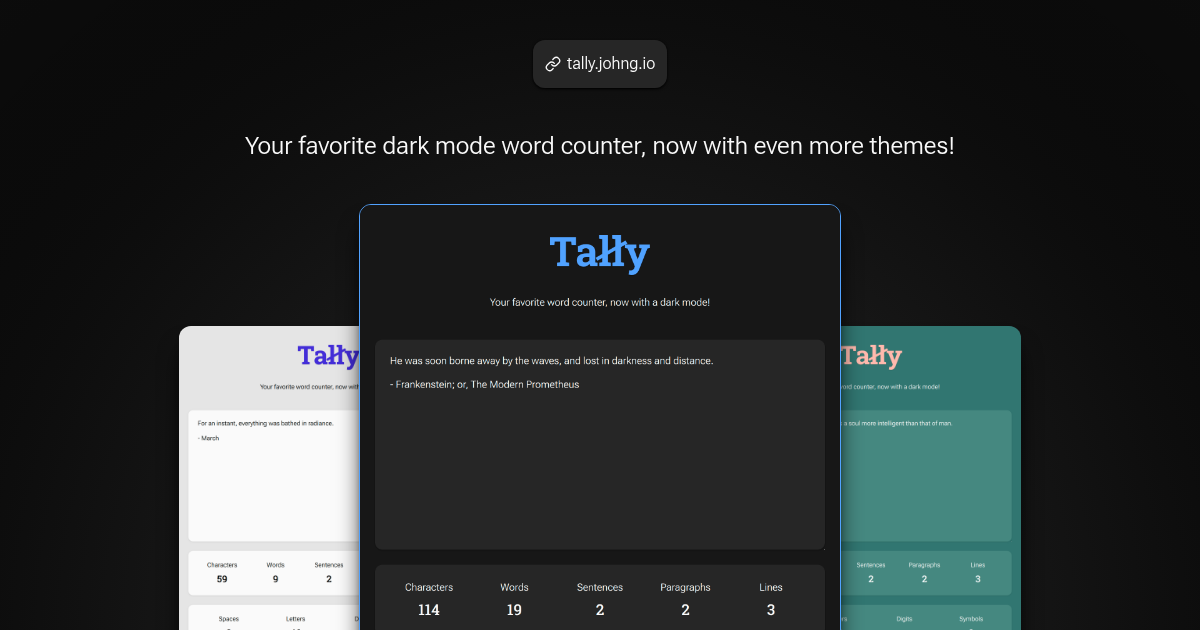
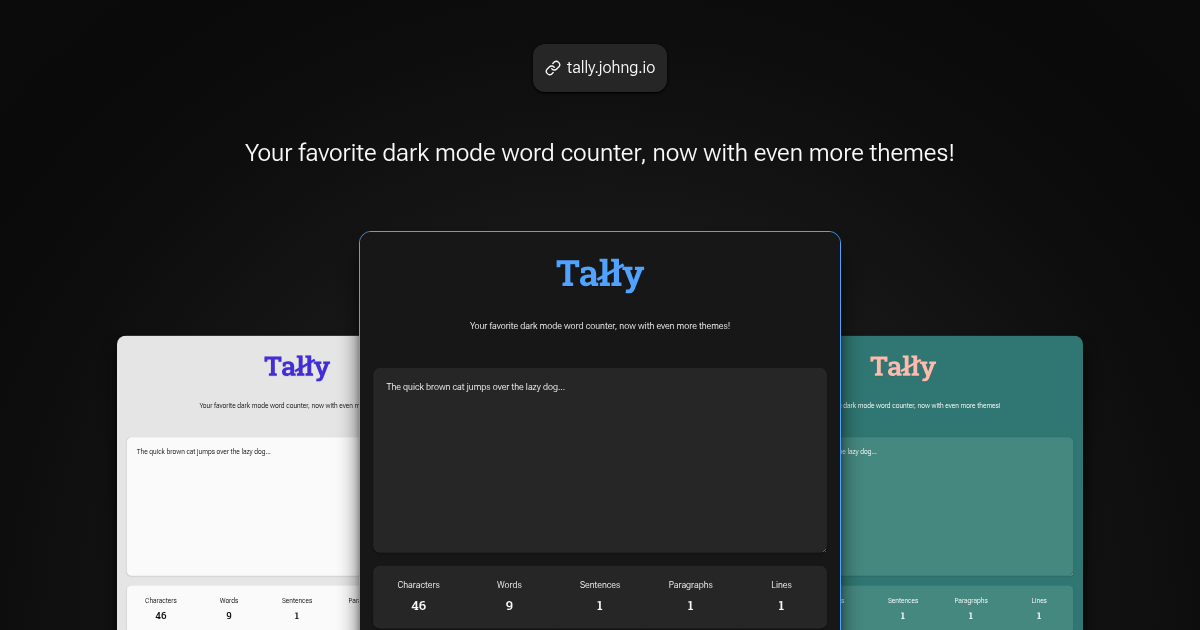
feat: render latest version of page in social previews (#151)
* chore: use near-lossless mode for webp images to prevent excessive banding in gradients

* feat: replace images with iframes in SocialPreviewLayout

* feat: regenerate social preview images

diff --git a/astro.config.ts b/astro.config.ts
@@ -44,8 +44,22 @@ export default defineConfig({
 		})),
 	},
 	integrations: [
-		// This uses the highest compression ratio by default
-		betterImageService(),
+		betterImageService({
+			sharp: {
+				webp: {
+					effort: 6,
+					// Webp has some pretty awful banding on gradients in social preview images regardless of the quality setting, so we use near-lossless mode to prevent this
+					nearLossless: true,
+				},
+				avif: {
+					quality: 60,
+					effort: 9,
+				},
+				png: {
+					compressionLevel: 9,
+				},
+			},
+		}),
 		markdoc(),
 		robotsTxt({
 			sitemapBaseFileName: `${SITE.sitemapPrefix}-index`,
@@ -81,7 +95,6 @@ export default defineConfig({
 			HTML: {
 				'html-minifier-terser': {
 					minifyCSS: false,
-					// collapseWhitespace: true,
 				},
 			},
 			CSS: {
